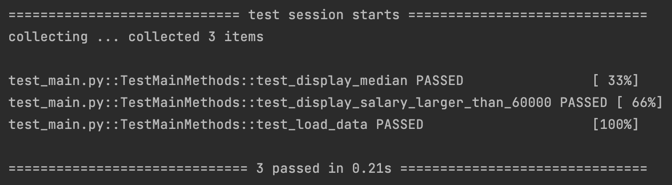
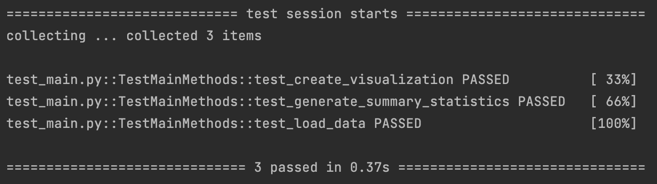
adjust codes according to the new requirements

diff --git a/test_main.py b/test_main.py
@@ -1,49 +1,37 @@
-"""
-Test goes here
-
-"""
-
-# test_main.py
-
 import unittest
+from unittest.mock import patch
 import pandas as pd
 import main  # Assuming main.py is in the same directory
 
 class TestMainMethods(unittest.TestCase):
 
     def setUp(self):
-        # This method will be executed before each test method, setting up the data for the tests
-        self.data = pd.DataFrame({
-            'Age': [25, 30, 35, 40, 45],
-            'Salary': [50000, 55000, 60000, 65000, 70000],
-            'Score': [85, 89, 78, 90, 82]
-        })
+        self.data = main.load_data('data.csv')
 
     def test_load_data(self):
         data = main.load_data('data.csv')
-        self.assertTrue(isinstance(data, pd.DataFrame))  # Check if data is a DataFrame
-        self.assertNotEqual(len(data), 0)  # Check if DataFrame is not empty
+        self.assertTrue(isinstance(data, pd.DataFrame))
+        # Check if the columns are as expected
+        self.assertListEqual(list(data.columns), ['Age', 'Salary', 'Score'])
 
-    def test_display_median(self):
-        medians = {
-            'Age': 35.0,
-            'Salary': 60000.0,
-            'Score': 85.0
-        }
-        for column in self.data.columns:
-            self.assertEqual(self.data[column].median(), medians[column])
+    def test_generate_summary_statistics(self):
+        # Since this function just prints, we can capture print outputs and verify
+        with patch("builtins.print") as mock_print:
+            main.generate_summary_statistics(self.data)
+            self.assertEqual(mock_print.call_count, 4)  # Ensure print was called four times
 
-    def test_display_salary_larger_than_60000(self):
-        data = self.data[self.data['Salary'] > 60000]
-        self.assertEqual(len(data), 2)  # Ensure the output only contains 2 entries
-        # Ensure the output contains the entry with a salary of 65000
-        self.assertTrue(65000 in data['Salary'].values)
-        self.assertTrue(70000 in data['Salary'].values)
-
-        # Ensure the output does not contain entries with a salary less than or equal to 60000
-        self.assertFalse(50000 in data['Salary'].values)
-        self.assertFalse(55000 in data['Salary'].values)
-        self.assertFalse(60000 in data['Salary'].values)
+    @patch("matplotlib.pyplot.show")
+    @patch("matplotlib.pyplot.ylabel")
+    @patch("matplotlib.pyplot.xlabel")
+    @patch("matplotlib.pyplot.title")
+    @patch.object(pd.Series, "plot")
+    def test_create_visualization(self, mock_plot, mock_title, mock_xlabel, mock_ylabel, mock_show):
+        main.create_visualization(self.data)
+        mock_plot.assert_called_once()
+        mock_title.assert_called_once_with('Salary Distribution')
+        mock_xlabel.assert_called_once_with('Index')
+        mock_ylabel.assert_called_once_with('Salary')
+        mock_show.assert_called_once()
 
 if __name__ == '__main__':
     unittest.main()

diff --git a/main.py b/main.py
@@ -7,29 +7,42 @@ Main cli or app entry point
 """
 
 import pandas as pd
-
+import matplotlib.pyplot as plt
 
 def load_data(filename):
     return pd.read_csv(filename)
 
-
-def display_salary_larger_than_60000(data):
-    print("Salary larger than 60000:")
-    print(data[data['Salary'] > 60000])
+def display_dataset_head(data):
+    print("Dataset Head:")
+    print(data.head())
     print("\n")
-
 
 def display_basic_statistics(data):
     print("Basic Descriptive Statistics:")
     print(data.describe())
     print("\n")
 
+def generate_summary_statistics(data):
+    print("Mean:\n", data.mean())
+    print("\nMedian:\n", data.median())
+    print("\nStandard Deviation:\n", data.std())
+    print("\n")
+
+def create_visualization(data):
+    # Plotting Salary distribution as an example
+    data['Salary'].plot(kind='bar')
+    plt.title('Salary Distribution')
+    plt.xlabel('Index')
+    plt.ylabel('Salary')
+    plt.show()
 
 def main():
     data = load_data('data.csv')
+    display_dataset_head(data)
     display_basic_statistics(data)
-    display_salary_larger_than_60000(data)
-
+    generate_summary_statistics(data)
+    create_visualization(data)
 
 if __name__ == "__main__":
     main()
+

diff --git a/README.md b/README.md
@@ -6,30 +6,50 @@
 
 > Duke University IDS 706 Weekly Mini Project 2
 
-This create a descriptive statistics script using Pandas and display basic information about the data set as well as filter the salary that larger than 60000.
-
-![img_2.png](img_2.png)
+This project is:
+- Python script using Polars for descriptive statistics 
+- Read a dataset (as above)
+- Generate summary statistics (mean, median, standard deviation)
+- Create one data visualization
 
 ## Preparation
 
 1. make sure a data.csv file is in the same directory as main.py
-2. Python 3.x.x
+2. Python 3 or above
 3. Pandas
+4. matplotlib.pyplot 
+5. The dataset file is as follow:
+
+![img.png](img.png)
 
 ## Run and Result
 
 ### Run
-
+use
 `python main.py`
 
+Upon running the script, it will display the mean, median, and standard deviation of the dataset. Then, a bar chart showing the Salary distribution will be displayed using matplotlib.
+
 ### Result
-![img.png](img.png)
+
+To show correctly reading the dataset, I use the head() function to display the first 5 rows of the dataset
+
+![img_4.png](img_4.png)
+
+Further, I display the basic statistics of the dataset and three summary of statistics
+
+![img_1.png](img_1.png)
+
+For the data visualization, I plot the histogram of the dataset:
+
+![img_2.png](img_2.png)
 
 ### Test
-`make test` or `python test_main.py`
+
+use 
+`make test` or `python test_main.py` to test the script
 
 ![img_3.png](img_3.png)
-
 
 ## Reference
 
